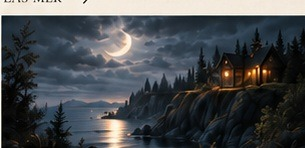
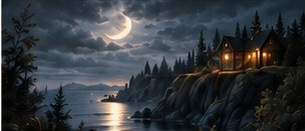
Framsidan visar de senaste berättelserna i stället för bloggen; Böcker i stället för Blogg under namnet

diff --git a/assets/css/home.css b/assets/css/home.css
@@ -187,7 +187,7 @@ h1, h2, h3 { font-weight: 500; margin: 0; }
 .world h2 { font-family: var(--serif); text-transform: uppercase; letter-spacing: .1em; font-size: clamp(1.6rem, 2.6vw, 2.2rem); line-height: 1.15; }
 .world p { margin: 6px 0 22px; font-size: 1.15rem; }
 
-/* ---------- Senaste från bloggen (nyhetsbrevet ligger ovanför sidfoten, se signup.css) ---------- */
+/* ---------- Senaste berättelserna (nyhetsbrevet ligger ovanför sidfoten, se signup.css) ---------- */
 .latest {
   max-width: var(--wrap); margin: 0 auto;
   padding: 40px var(--gutter) 30px;
@@ -200,7 +200,7 @@ h1, h2, h3 { font-weight: 500; margin: 0; }
 .post h3 a { text-decoration: none; }
 .post h3 a:hover { color: var(--brown); }
 .post__sub { font-style: italic; margin: 0 0 8px; color: var(--ink); line-height: 1.3; }
-.post time { font-family: var(--caps); font-size: .8rem; letter-spacing: .14em; color: var(--ink-soft); }
+.post__meta { margin: 0; font-family: var(--caps); font-size: .8rem; letter-spacing: .14em; color: var(--ink-soft); }
 
 /* ---------- Footer ---------- */
 /* Trädsilhuetten ovanför sidfoten ligger i nyhetsbrevsdelen (signup.css).

diff --git a/assets/css/topbar.css b/assets/css/topbar.css
@@ -88,15 +88,15 @@ body { position: relative; }
 }
 
 /* Mellanstora skärmar: tätare meny så att allt ryms på en rad */
-@media (max-width: 1639px) and (min-width: 1260px) {
+@media (max-width: 1639px) and (min-width: 1270px) {
   .topbar { gap: 1rem; }
   .topbar-nav ul { gap: .65rem; }
   .topbar-nav a { font-size: .9rem; letter-spacing: .04em; }
   .topbar-logo__name { font-size: 1.8rem; }
 }
 
-/* Under 1260px ryms inte menyn på en rad – visa hamburgermenyn */
-@media (max-width: 1259px) {
+/* Under 1270px ryms inte menyn på en rad – visa hamburgermenyn */
+@media (max-width: 1269px) {
   .topbar { padding-right: var(--tb-gutter); flex-wrap: wrap; gap: 12px; }
   .topbar-social { display: none; }
   .topbar-toggle {
